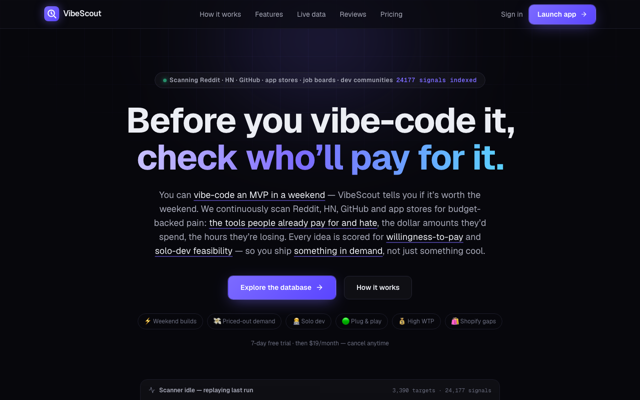
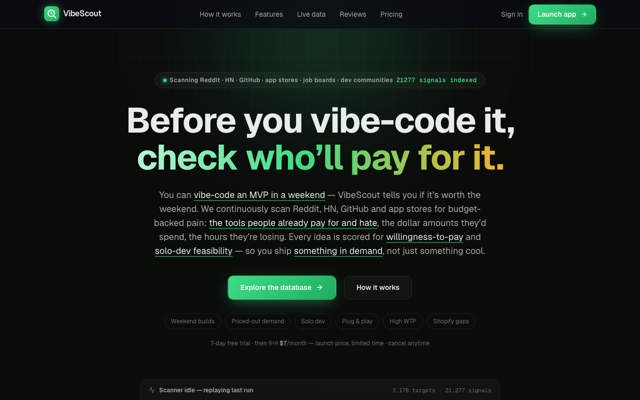
Update VibeScout card for the new green theme
Fresh screenshot (theme went violet → mint) — icon color follows the
new brand (#3ddc84) and the JSON-LD offer tracks the $7 launch price.

Generated with [Devin](https://devin.ai)

diff --git a/index.html b/index.html
@@ -235,7 +235,7 @@
     {"@type":"ListItem","position":3,"item":{"@type":"SoftwareApplication","name":"Bitcoin keyHunt","url":"https://bitcoinkeyhunt.meesai.net/","applicationCategory":"UtilitiesApplication","operatingSystem":["Android","Web"],"offers":{"@type":"Offer","price":"0","priceCurrency":"USD"}}},
     {"@type":"ListItem","position":4,"item":{"@type":"SoftwareApplication","name":"Yieldy","url":"https://meesai.net/yieldy/","applicationCategory":"FinanceApplication","operatingSystem":"Android","offers":{"@type":"Offer","price":"0","priceCurrency":"USD"}}},
     {"@type":"ListItem","position":5,"item":{"@type":"SoftwareApplication","name":"Payoff Turbo","url":"https://meesai.net/payoffturbo/","applicationCategory":"FinanceApplication","operatingSystem":"Android","offers":{"@type":"Offer","price":"0","priceCurrency":"USD"}}},
-    {"@type":"ListItem","position":6,"item":{"@type":"SoftwareApplication","name":"VibeScout","url":"https://vibescout.meesai.net/","applicationCategory":"BusinessApplication","operatingSystem":"Web","offers":{"@type":"Offer","price":"19","priceCurrency":"USD"}}}
+    {"@type":"ListItem","position":6,"item":{"@type":"SoftwareApplication","name":"VibeScout","url":"https://vibescout.meesai.net/","applicationCategory":"BusinessApplication","operatingSystem":"Web","offers":{"@type":"Offer","price":"7","priceCurrency":"USD"}}}
     ]}
     </script>
     <script type="application/ld+json">
@@ -344,7 +344,7 @@
                     <!-- App Card 1: VibeScout --><a href="https://vibescout.meesai.net/" class="app-card-modern p-8 flex flex-col" data-cat="web">
                         <img src="/vibescout/card.png" alt="VibeScout — micro-SaaS idea database landing page" class="card-shot" loading="lazy" width="640" height="400">
                         <div class="flex items-center justify-between mb-6">
-                            <div class="app-icon-circle mb-0" style="color: #5a45ff;">
+                            <div class="app-icon-circle mb-0" style="color: #3ddc84;">
                                 <span class="text-2xl" role="img" aria-label="Magnifier">🔎</span>
                             </div>
                             <span class="px-3 py-1 text-xs font-bold uppercase tracking-wide chip chip-acc rounded-full">New · Live</span>
